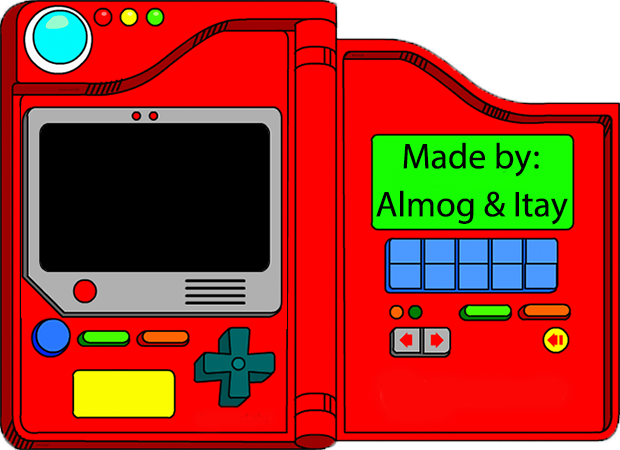
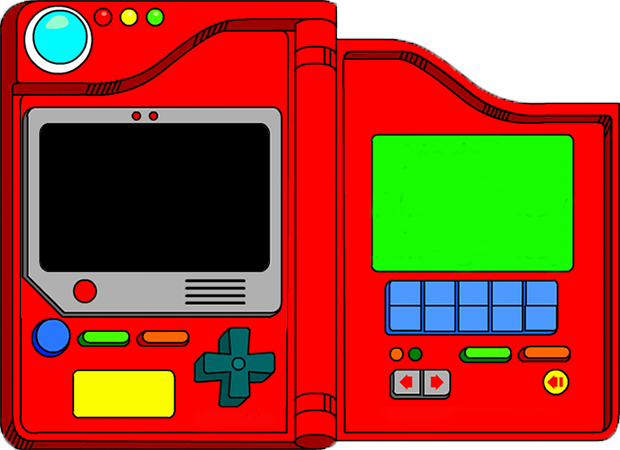
improved algorithm & GUI design.

Changed region(s): [[0.5823, 0.4356, 0.95, 0.9022], [0.6435, 0.3111, 0.8887, 0.4044]]

diff --git a/src/gameClient/Ex2_Client.java b/src/gameClient/Ex2_Client.java
@@ -29,7 +29,7 @@ public class Ex2_Client implements Runnable{
 	
 	//@Override
 	public void run() {
-		int scenario_num = 23;
+		int scenario_num = 11;
 		game_service game = Game_Server_Ex2.getServer(scenario_num); // you have [0,23] games
 	//	int id = 999;
 	//	game.login(id);
@@ -41,9 +41,68 @@ public class Ex2_Client implements Runnable{
 		game.startGame();
 		_win.setTitle("Ex2 - OOP: (NONE trivial Solution) "+game.toString());
 		int ind=0;
-		long dt=50;
+		long dt=20;
 		
-		/*HashMap<Integer, HashMap<Integer, Boolean>> gameTrick = new HashMap<>();
+		
+		HashMap<Integer, HashMap<Integer, Boolean>> gameTrick = new HashMap<>();
+		
+		/*
+		// map 23
+		gameTrick.put(0, new HashMap<>());
+		gameTrick.get(0).put(0, true);
+		gameTrick.get(0).put(1, true);
+		gameTrick.get(0).put(2, true);
+		gameTrick.get(0).put(3, true);
+		gameTrick.get(0).put(4, true);
+		gameTrick.get(0).put(5, true);
+		gameTrick.get(0).put(6, true);
+		gameTrick.get(0).put(7, true);
+		gameTrick.get(0).put(8, true);
+		gameTrick.get(0).put(9, true);
+		gameTrick.get(0).put(10, true);
+		gameTrick.get(0).put(11, true);
+		gameTrick.get(0).put(12, true);
+		gameTrick.get(0).put(13, true);
+		gameTrick.put(1, new HashMap<>());
+		gameTrick.get(1).put(40, true);
+		gameTrick.get(1).put(41, true);
+		gameTrick.get(1).put(42, true);
+		gameTrick.get(1).put(43, true);
+		gameTrick.get(1).put(44, true);
+		gameTrick.get(1).put(45, true);
+		gameTrick.get(1).put(46, true);
+		gameTrick.get(1).put(47, true);
+		gameTrick.put(2, new HashMap<>());
+		gameTrick.get(2).put(14, true);
+		gameTrick.get(2).put(15, true);
+		gameTrick.get(2).put(16, true);
+		gameTrick.get(2).put(17, true);
+		gameTrick.get(2).put(18, true);
+		gameTrick.get(2).put(19, true);
+		gameTrick.get(2).put(20, true);
+		//gameTrick.get(2).put(21, true);
+		gameTrick.get(2).put(22, true);
+		gameTrick.get(2).put(23, true);
+		gameTrick.get(2).put(24, true);
+		gameTrick.get(2).put(25, true);
+		gameTrick.get(2).put(26, true);
+		gameTrick.get(2).put(27, true);
+		gameTrick.get(2).put(28, true);
+		gameTrick.get(2).put(29, true);
+		gameTrick.get(2).put(30, true);
+		gameTrick.get(2).put(31, true);
+		//gameTrick.get(2).put(32, true);
+		//gameTrick.get(2).put(33, true);
+		gameTrick.get(2).put(34, true);
+		gameTrick.get(2).put(35, true);
+		gameTrick.get(2).put(36, true);
+		gameTrick.get(2).put(37, true);
+		gameTrick.get(2).put(38, true);
+		gameTrick.get(2).put(39, true);
+		*/
+		
+		
+		// map 11
 		gameTrick.put(0, new HashMap<>());
 		gameTrick.get(0).put(2, true);
 		gameTrick.get(0).put(3, true);
@@ -80,7 +139,13 @@ public class Ex2_Client implements Runnable{
 		gameTrick.get(2).put(13, true);
 		gameTrick.get(2).put(20, true);
 		gameTrick.get(2).put(30, true);
-		_ar.setgameTrick(gameTrick);*/
+		
+		
+		
+		
+		
+		
+		_ar.setgameTrick(gameTrick);
 		
 		while(game.isRunning()) {
 			moveAgants(game, gg);
@@ -160,23 +225,22 @@ public class Ex2_Client implements Runnable{
 			// if the current agent is on the src of a edge that the Pokemon 
 			// on it go to this edge dest. (and return).
 			if (_ar.getPokemons().get(i).get_edge().getSrc()==src) {
-				//_ar.getPokemons().get(index).setUsed(true);
 				return _ar.getPokemons().get(i).get_edge().getDest();
 			}
 			// else get minimum destination between agent src and pokimon edge src (temp variable)
 			temp = hh.shortestPathDist(src, _ar.getPokemons().get(i).get_edge().getSrc());
 			// switch to minimum if this pokimon is nearest.
 			if (temp<min&&!_ar.getPokemons().get(i).getUsed()) { // &&!_ar.getPokemons().get(i).getUsed()
-				//if (_ar.getgameTrick().get(ag.getID()).containsKey(_ar.getPokemons().get(i).get_edge().getSrc())) {
+				if (_ar.getgameTrick().get(ag.getID()).containsKey(_ar.getPokemons().get(i).get_edge().getSrc())) {
 					min = temp;
 					index = i;
 					returnint = _ar.getPokemons().get(i).get_edge().getSrc();
-				//}
+				}
 			}
 		}
 		// mark the pokimon as 'used' (by one of the agents).
 		
-		_ar.getPokemons().get(index).setUsed(true);
+		//_ar.getPokemons().get(index).setUsed(true);
 		
 		// here we save the next edge that the agent need to go.
 		// (using shortestPath method between agent src to pokimon src)
@@ -186,10 +250,12 @@ public class Ex2_Client implements Runnable{
 		// (not null because if src==edge.src so the method return on start).
 		
 		//nextone = hh.shortestPath(src, returnint).get(1).getKey();
+		
 		if (returnint!=-1) {
 		List<node_data> directions = hh.shortestPath(src, returnint);
 		nextone = directions.get(1).getKey();
 		}
+		
 		//try {
 		//	Thread.sleep(1000);
 		//} catch (Exception e) {

diff --git a/src/gameClient/MyFrame.java b/src/gameClient/MyFrame.java
@@ -127,8 +127,14 @@ public class MyFrame extends JFrame {
     	    g.setColor(Color.WHITE);
     	    // g.drawString("Grade: "+_ar.getGrade(), (2*25)*w/800, (2*25)*h/60);
 			// g.drawString("Moves: "+_ar.getMoves(), (2*25)*w/800, (2*25)*h/57);
-			g.drawString("Grade: "+_ar.getGrade(), (2*25)*w/850, (2*25)*h/64);
-			g.drawString("Moves: "+_ar.getMoves(), (2*25)*w/850, (2*25)*h/61);
+			g.drawString("Grade: "+_ar.getGrade(), (2*25)*w/845, (2*25)*h/64);
+			g.drawString("Moves: "+_ar.getMoves(), (2*25)*w/845, (2*25)*h/62);
+			g.drawString("Time: "+_ar.getTime(), (2*25)*w/845, (2*25)*h/60);
+			g.setColor(Color.BLACK);
+			List<CL_Agent> ags = _ar.getAgents();
+			for (int i = 0; i < ags.size(); i++) {
+				g.drawString("A"+i+" Val: "+ags.get(i).getValue(), (2*25)*w/265, (2*25)*h/(64-2*i));
+			}
 		} catch (JSONException e) {
 			e.printStackTrace();
 		}
@@ -149,9 +155,9 @@ public class MyFrame extends JFrame {
 			if(c!=null) {
 				geo_location fp = this._w2f.world2frame(c);
 				if(f.getType()<0) {
-					g.drawImage(pika, ((int)fp.x()-r)*w/1000, ((int)fp.y()-r)*h/1000, (2*r)*w/1000, (2*r)*h/1000, this);
+					g.drawImage(pika, ((int)fp.x()-r)*w/1010, ((int)fp.y()-r)*h/1010, (2*r)*w/1010, (2*r)*h/1010, this);
 				} else {
-					g.drawImage(bulbasaur, ((int)fp.x()-r)*w/1000, ((int)fp.y()-r)*h/1000, (2*r)*w/1000, (2*r)*h/1000, this);
+					g.drawImage(bulbasaur, ((int)fp.x()-r)*w/1010, ((int)fp.y()-r)*h/1010, (2*r)*w/1010, (2*r)*h/1010, this);
 				}
 				//g.drawImage(pika, ((int)fp.x()-r)*w/1000, ((int)fp.y()-r)*h/1000, (2*r)*w/1000, (2*r)*h/1000, this);
 				//g.fillOval(((int)fp.x()-r)*w/1000, ((int)fp.y()-r)*h/1000, (2*r)*w/1000, (2*r)*h/1000);
@@ -174,8 +180,8 @@ public class MyFrame extends JFrame {
 			i++;
 			if(c!=null) {
 				geo_location fp = this._w2f.world2frame(c);
-				g.drawImage(ash, ((int)fp.x()-r)*w/1000, ((int)fp.y()-r)*h/1000, (2*r)*w/1000, (2*r)*h/1000, this);
-				//g.fillOval(((int)fp.x()-r)*w/1000, ((int)fp.y()-r)*h/1000, (2*r)*w/1000, (2*r)*h/1000);
+				g.drawImage(ash, ((int)fp.x()-r)*w/1010, ((int)fp.y()-r)*h/1010, (2*r)*w/1010, (2*r)*h/1010, this);
+				//g.fillOval(((int)fp.x()-r)*w/1015, ((int)fp.y()-r)*h/1015, (2*r)*w/1015, (2*r)*h/1015);
 			}
 		}
 	}
@@ -185,9 +191,9 @@ public class MyFrame extends JFrame {
 		int w = getWidth();
         int h = getHeight();
         g.setColor(Color.blue);
-		g.fillOval(((int)fp.x()-r)*w/1000, ((int)fp.y()-r)*h/1000, (2*r)*w/1000, (2*r)*h/1000);
+		g.fillOval(((int)fp.x()-r)*w/1010, ((int)fp.y()-r)*h/1010, (2*r)*w/1010, (2*r)*h/1010);
 		g.setColor(Color.BLUE);
-		g.drawString(""+n.getKey(), ((int)fp.x())*w/1000, ((int)fp.y()-4*r)*h/1000);
+		g.drawString(""+n.getKey(), ((int)fp.x())*w/1010, ((int)fp.y()-4*r)*h/1010);
 	}
 	private void drawEdge(edge_data e, Graphics g) {
 		directed_weighted_graph gg = _ar.getGraph();
@@ -201,7 +207,7 @@ public class MyFrame extends JFrame {
         Graphics2D g2d = (Graphics2D) g.create();
         g2d.setColor(Color.black);
         g2d.setStroke(new BasicStroke(1.0f));
-        g2d.drawLine((int)s0.x()*w/1000, (int)s0.y()*h/1000, (int)d0.x()*w/1000, (int)d0.y()*h/1000);
+        g2d.drawLine((int)s0.x()*w/1010, (int)s0.y()*h/1010, (int)d0.x()*w/1010, (int)d0.y()*h/1010);
         
 		//g.drawLine((int)s0.x()*w/1000, (int)s0.y()*h/1000, (int)d0.x()*w/1000, (int)d0.y()*h/1000);
 		//g.drawString(""+n.getKey(), fp.ix(), fp.iy()-4*r);

diff --git a/src/gameClient/Arena.java b/src/gameClient/Arena.java
@@ -203,6 +203,11 @@ public class Arena {
 		return grade;
 	}
 	
+	public String getTime() {
+		long time = game.timeToEnd();
+		return time/1000+"."+time%1000;
+	}
+	
 	public void setgameTrick(HashMap<Integer, HashMap<Integer, Boolean>> g) {
 		this.gameTrick = g;
 	}
@@ -210,5 +215,4 @@ public class Arena {
 	public HashMap<Integer, HashMap<Integer, Boolean>> getgameTrick() {
 		return this.gameTrick;
 	}
-	
 }
